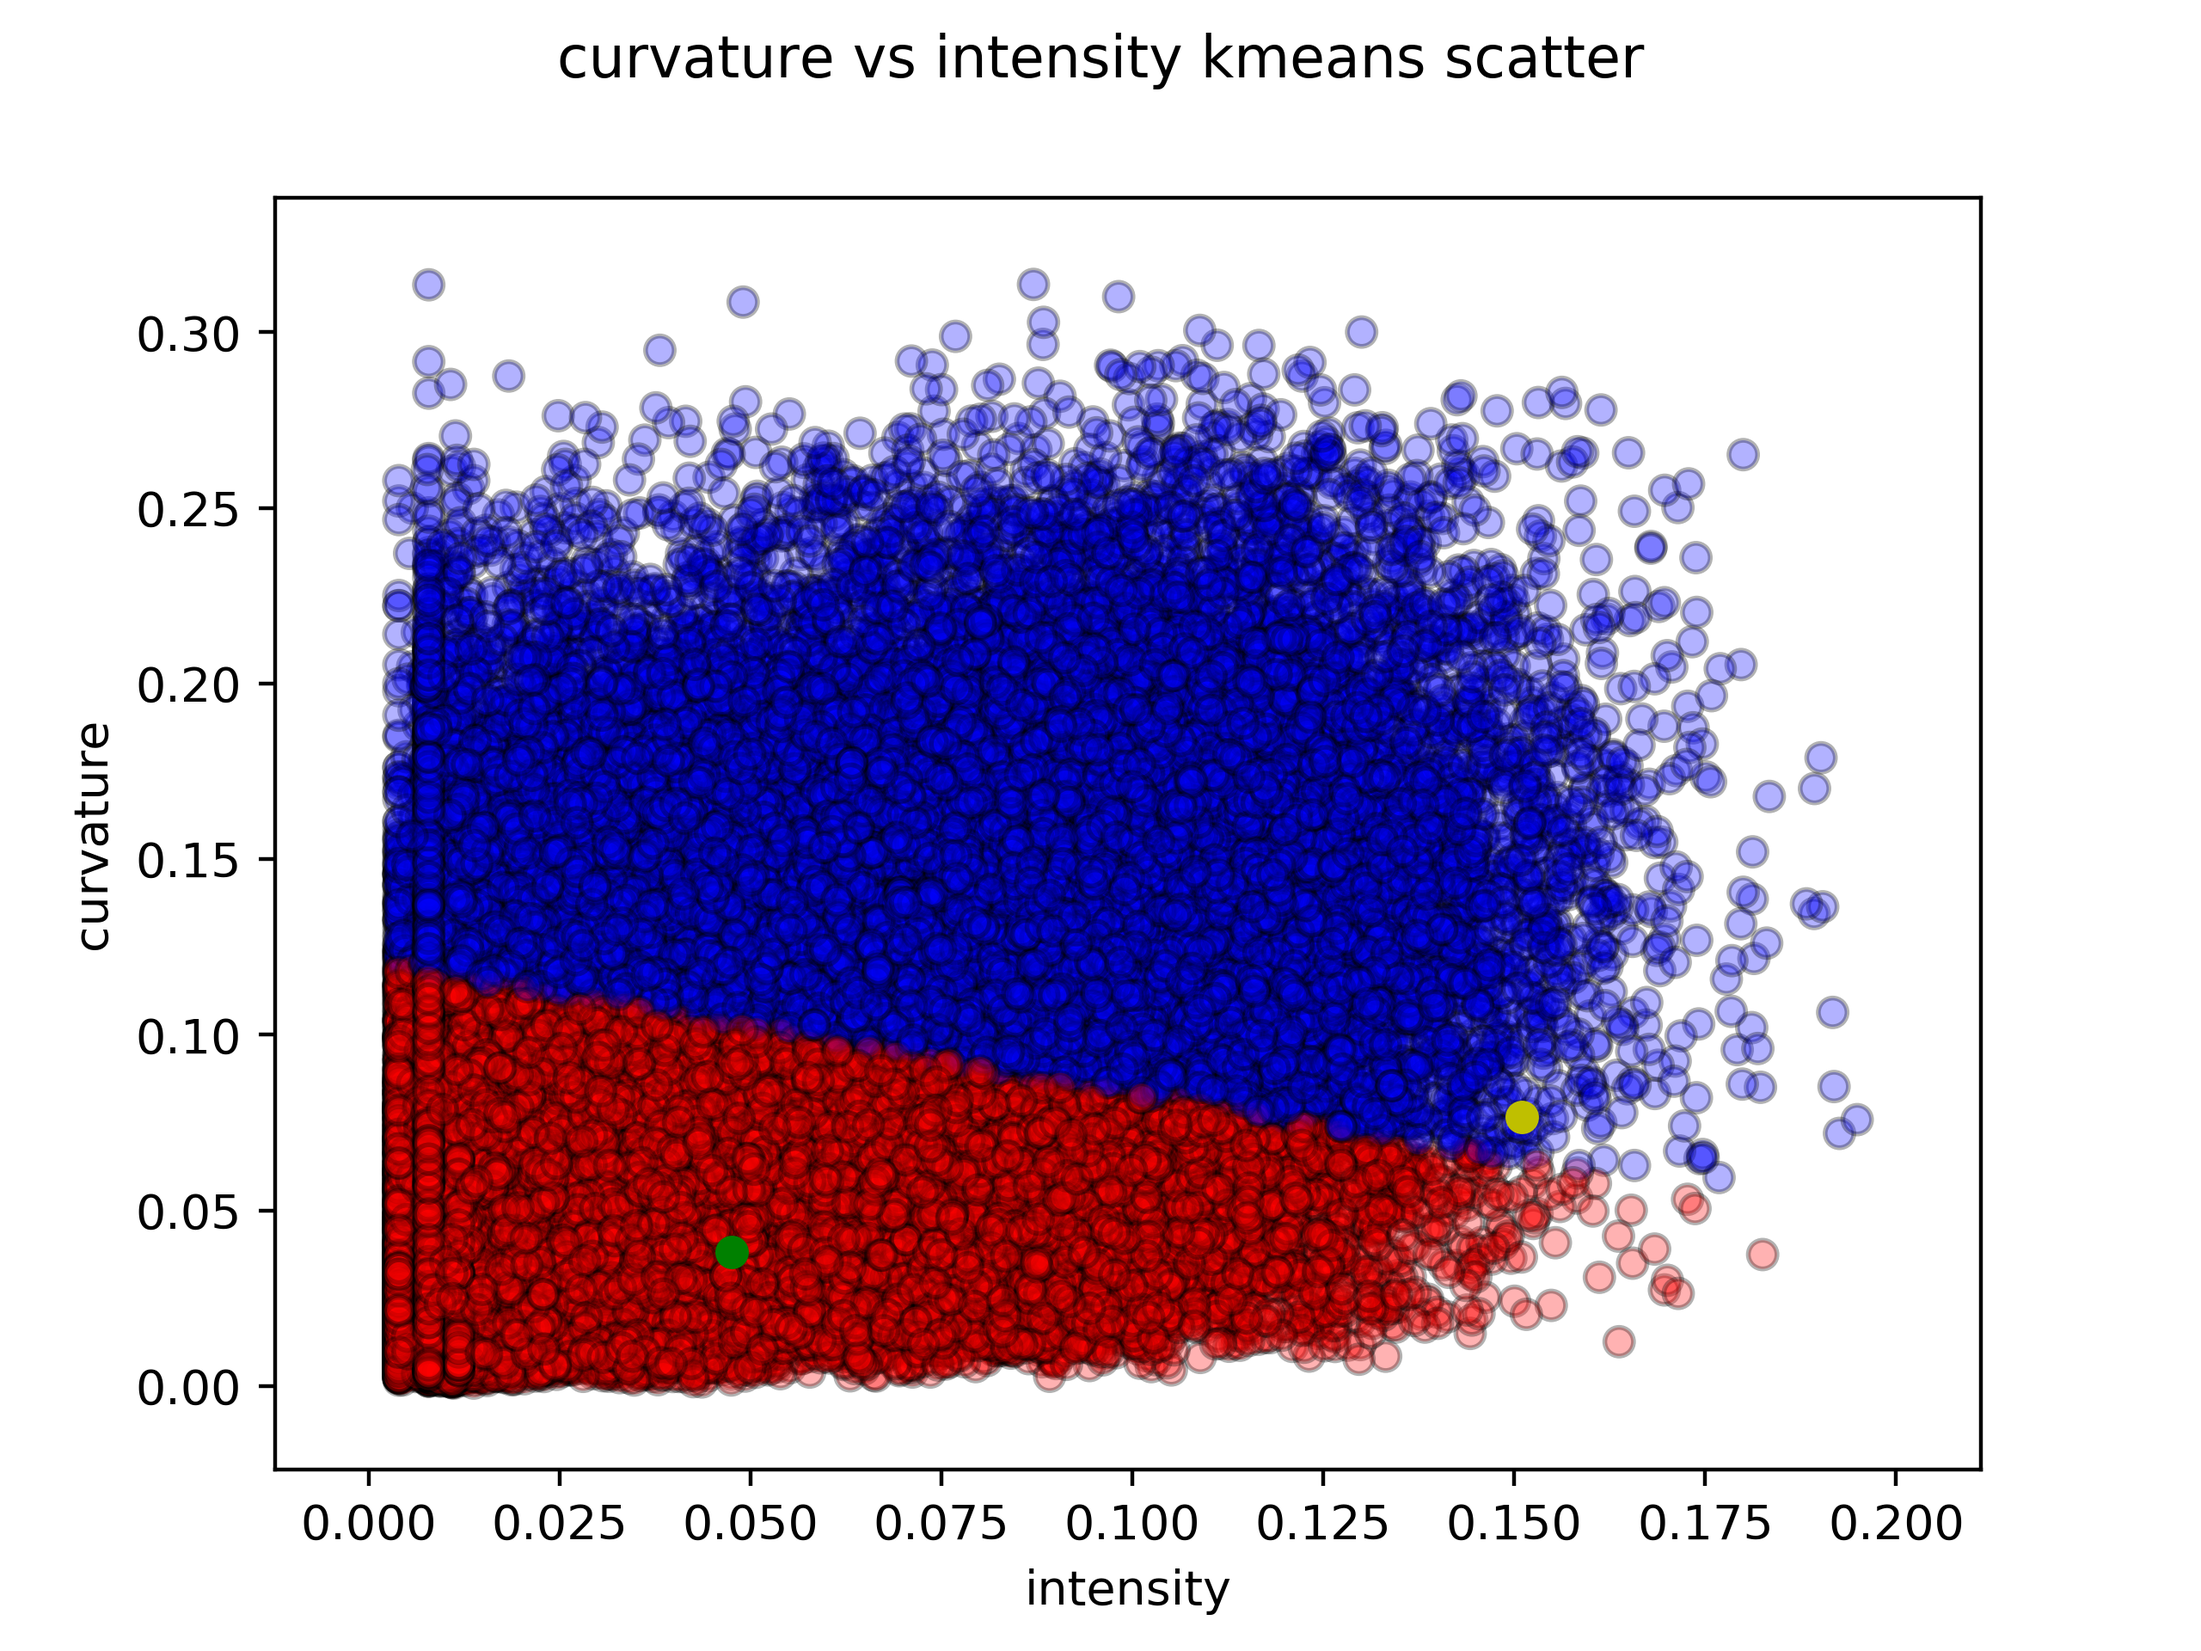
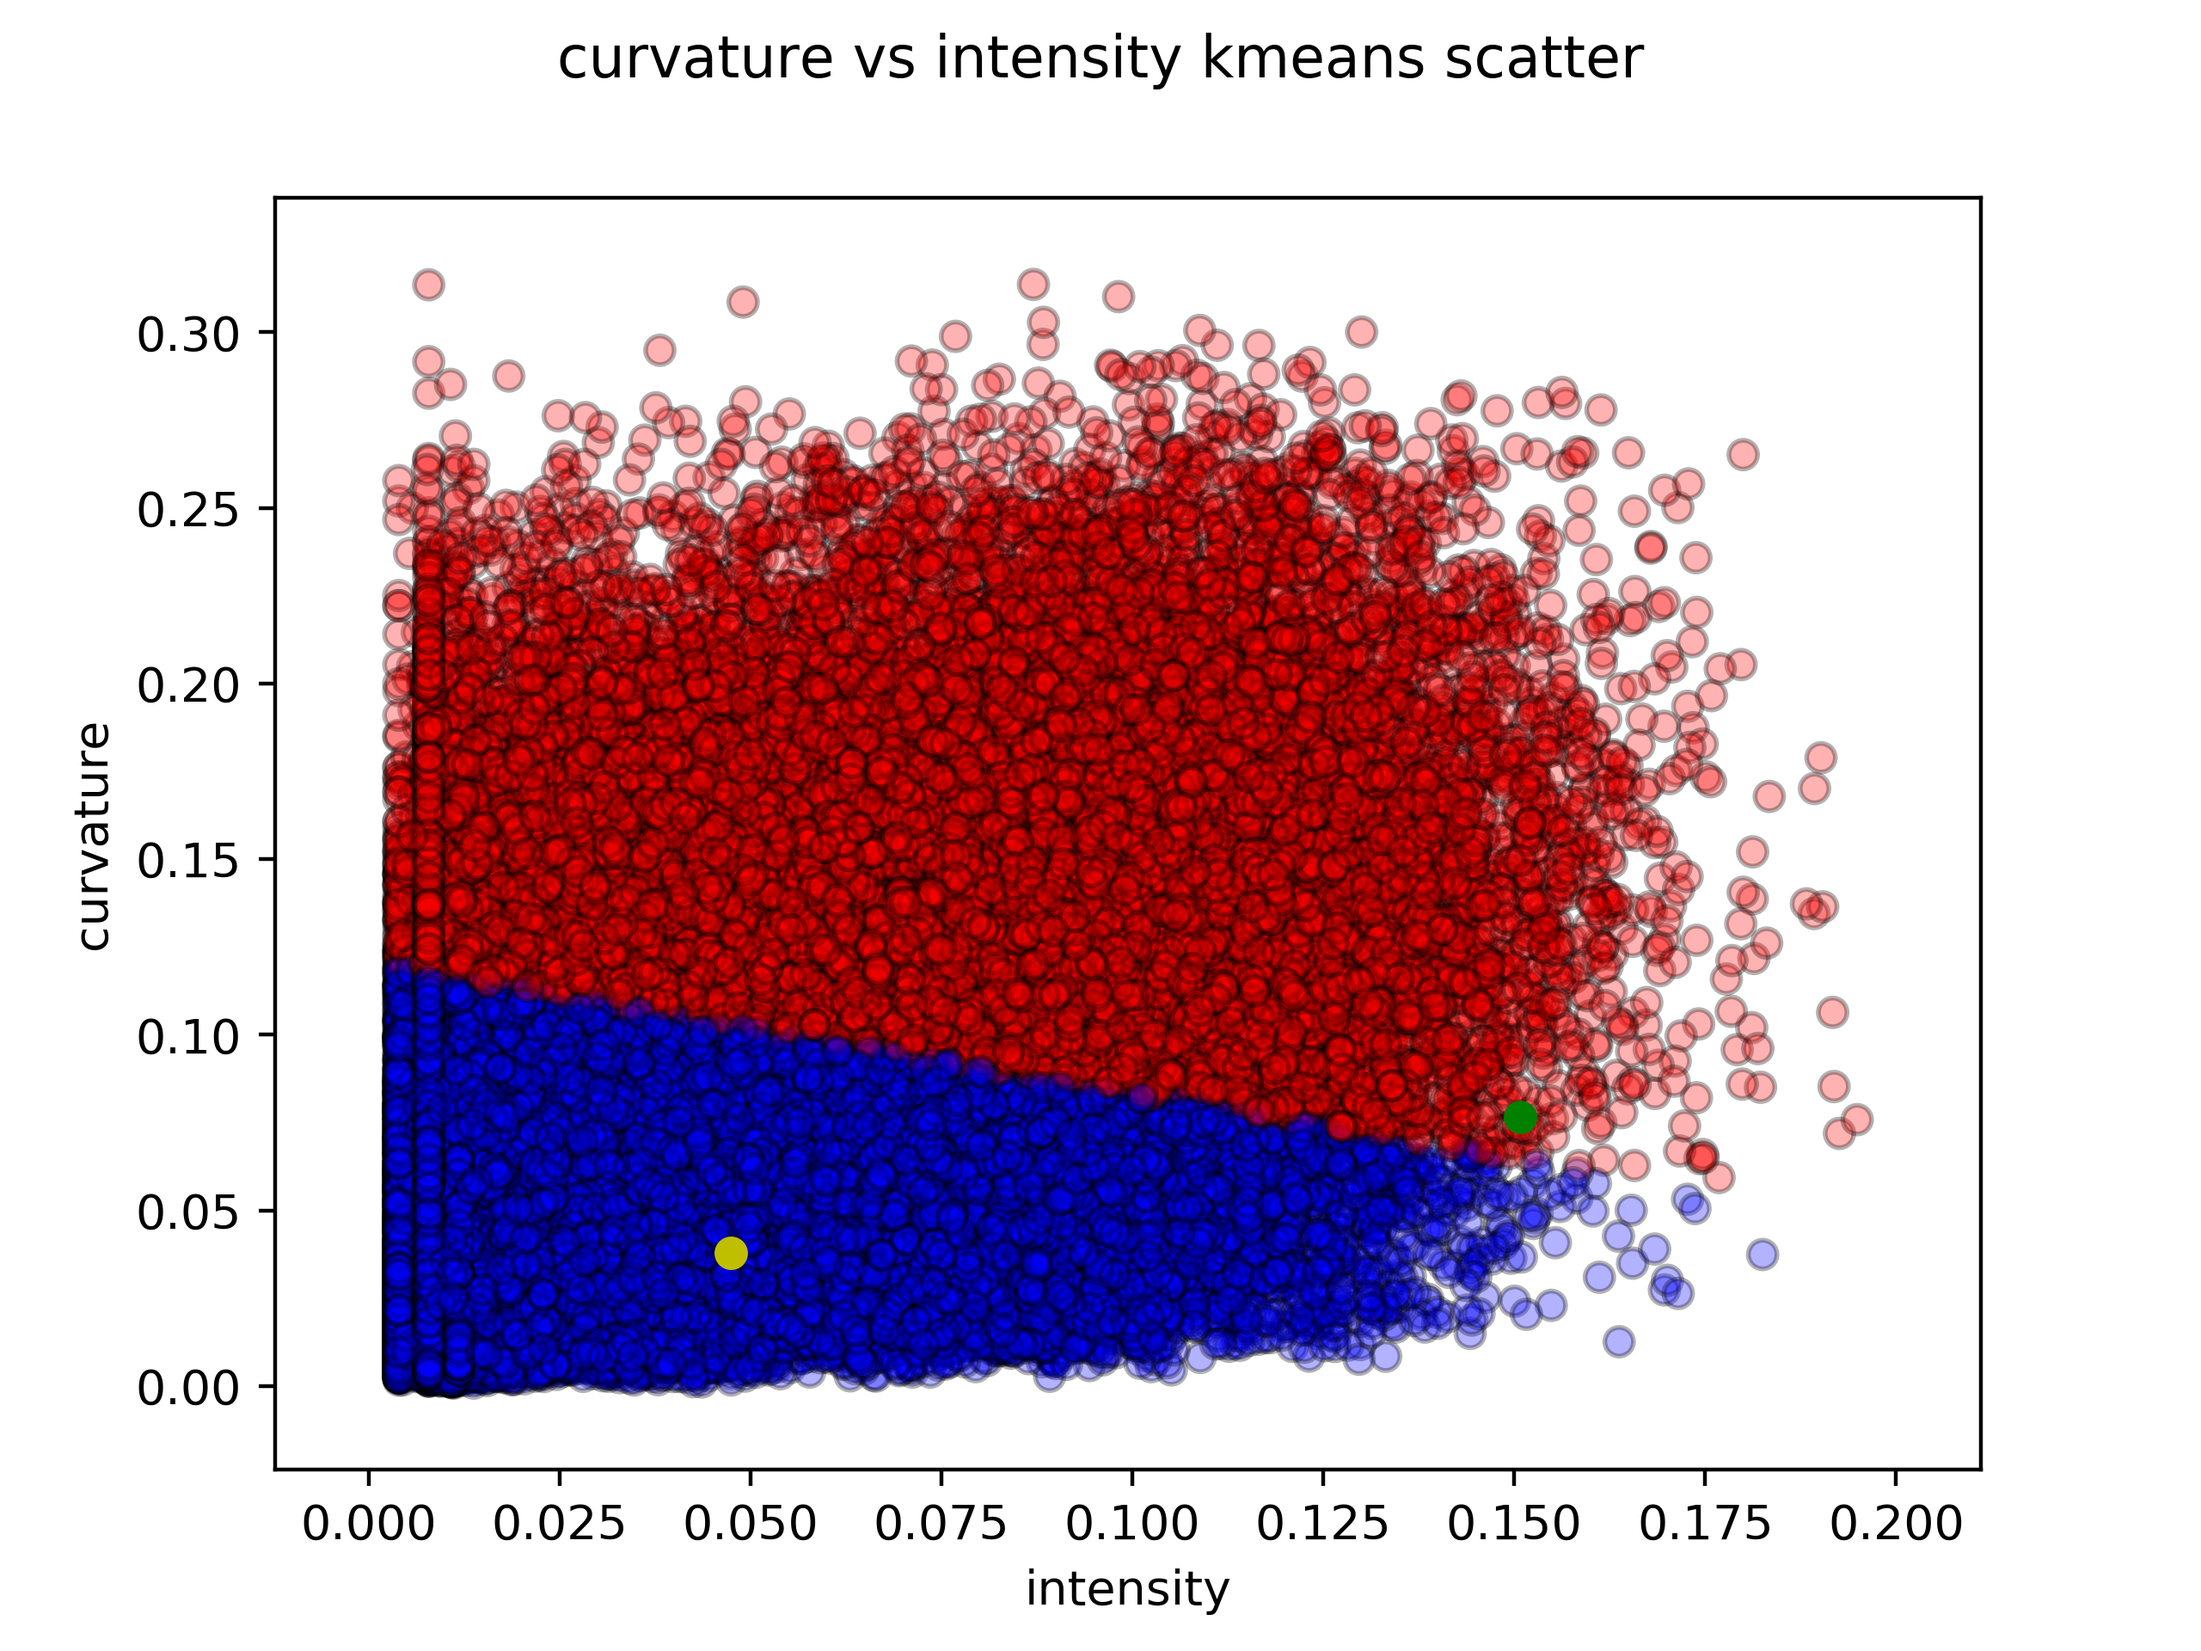
added gmm analysis

diff --git a/scripts/plot.py b/scripts/plot.py
@@ -3,6 +3,8 @@ import matplotlib.pyplot as plt
 import matplotlib.colors as mcolors
 import numpy as np
 from sklearn.cluster import KMeans
+from sklearn.mixture import GaussianMixture
+
 
 path = "../data/"
 
@@ -61,4 +63,15 @@ ax.set_xlabel("intensity")
 ax.set_ylabel("curvature")
 fig5.suptitle("curvature vs intensity kmeans scatter")
 fig5.savefig(path + "int_vs_curv_kmeans.png", dpi=400)
+
+fig6, ax = plt.subplots()
+gmm = GaussianMixture(n_components=2, covariance_type= 'full').fit(data)
+labels = gmm.predict(data)
+ax.scatter(data['intensity'], data['curvature'], c=labels, cmap='viridis')
+ax.set_xlabel("intensity")
+ax.set_ylabel("curvature")
+fig6.suptitle("curvature vs intensity gmm scatter")
+fig6.savefig(path + "int_vs_curv_gmm.png", dpi=400)
+
+
 
